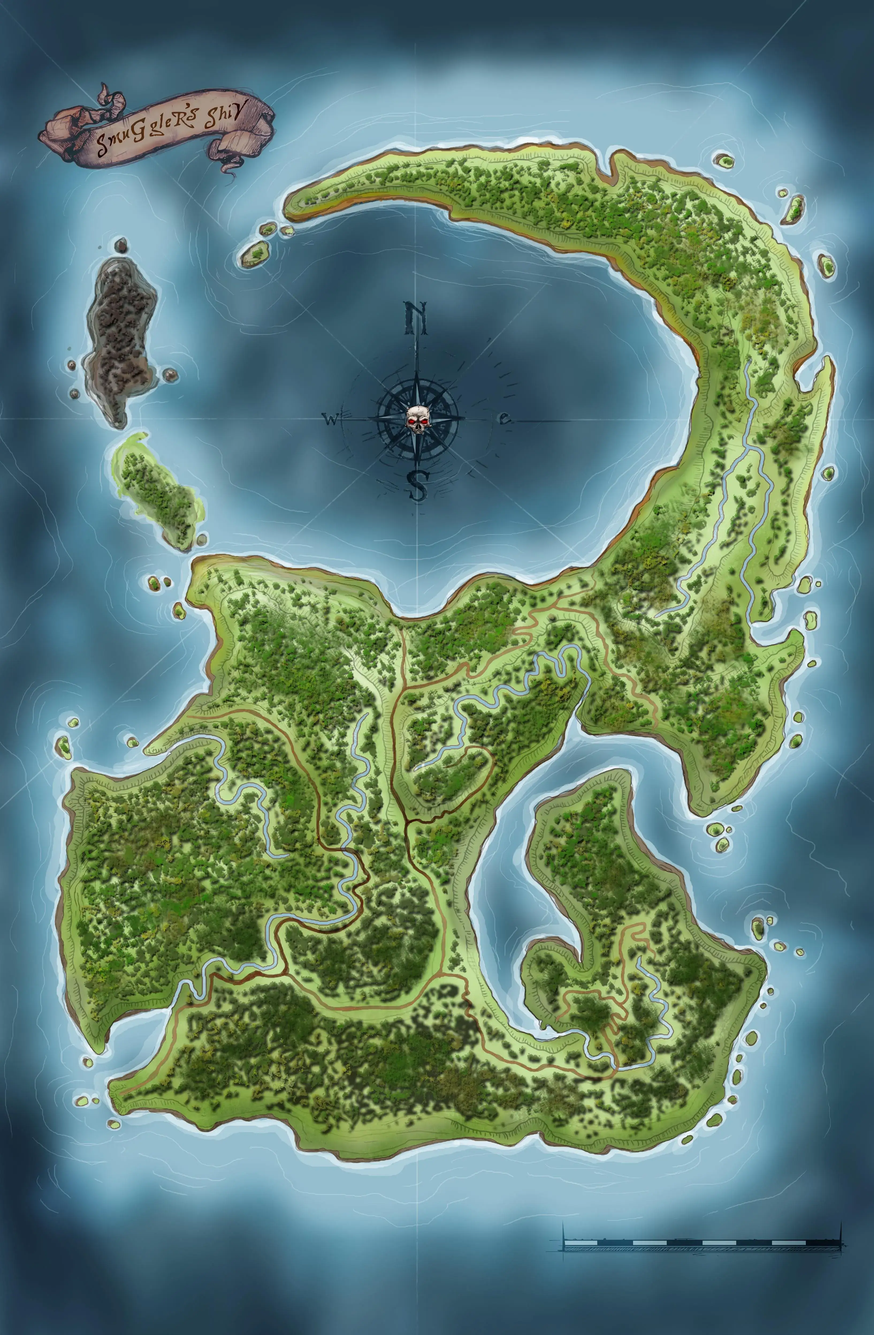
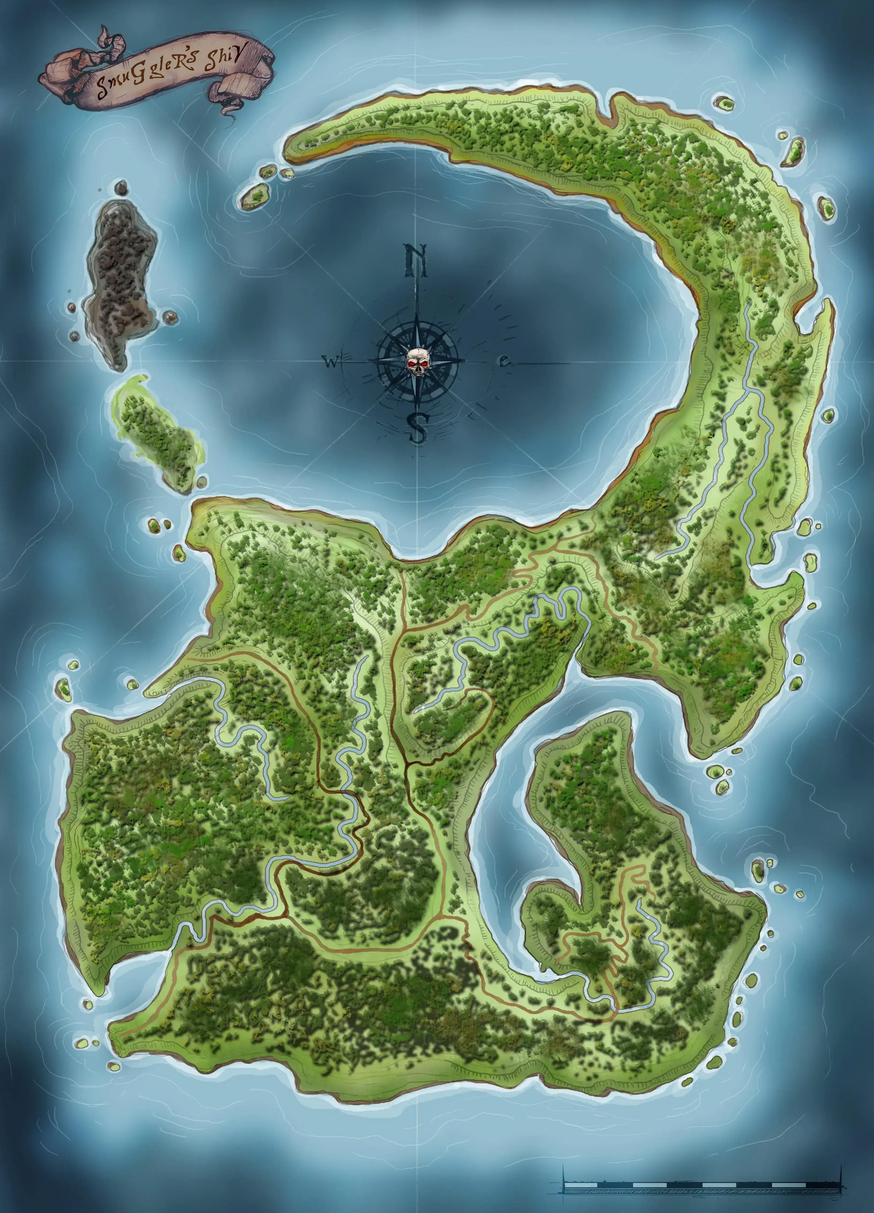
rework light-zoom to include crosshair, modernized js, add req maps

diff --git a/serpents/scripts/lightzoom.js b/serpents/scripts/lightzoom.js
@@ -1,68 +1,96 @@
 /*
- Author: Jafar Akhondali
- Release year: 2016
- Title:	Light-Zoom JQuery plugin that use pure css to zoom on images, this enables you to zoom without loading bigger image and zoom even on gif images !
+ Author: Original - Jafar Akhondali; Edited By - Harrison Merrill
+ Release year: 2016; Modernized 2025
+ Title:	Light-Zoom JQuery plugin that use pure css to zoom on images, this enables
+ you to zoom without loading bigger image and zoom even on gif images!
  https://github.com/JafarAkhondali/lightzoom
  */
-$.fn.lightzoom = function(options) {
+(function ($) {
+	const debounce = (func, delay) => {
+		let timeout;
+		return (...args) => {
+			clearTimeout(timeout);
+			timeout = setTimeout(() => func(...args), delay);
+		};
+	};
 
-    var settings = $.extend({
-        zoomPower   : 3,
-        glassSize   : 175,
-    }, options);
+	$.fn.lightzoom = function (options) {
+		console.log('Initializing lightzoom'); // Added for debugging
 
-    var halfSize= settings.glassSize /2;
-    var quarterSize = settings.glassSize/4;
+		const settings = $.extend({
+			zoomPower: 3,
+			glassSize: 175,
+		}, options);
 
-    var zoomPower = settings.zoomPower;
+		const halfSize = settings.glassSize / 2;
+		const quarterSize = settings.glassSize / 4;
+		const zoomPower = settings.zoomPower;
 
-    $("body").append('<div id="glass"></div>');
-    $('html > head').append($('<style> #glass{width: '+settings.glassSize+'px; height: '+settings.glassSize+'px;}</style>'));
+		$('body').append('<div id="glass"><div id="crosshair"></div></div>');
 
+		let faker;
+		const obj = this;
 
-    var faker;
-    var obj=this;
+		const glass = document.getElementById('glass');
+		let animationFrameId;
 
-    $("#glass").mousemove(function(event) {
-        var obj=this.targ;
-        event.target=obj;
-        faker(event,obj);
-    });
+		const debouncedFaker = debounce((event, obj) => faker(event, obj), 10);
 
-    this.mousemove(function(event) {
-        faker(event,this);
-    });
-    faker=function(event,obj) {
-        //console.log(obj);
-        document.getElementById('glass').targ=obj;
-        var mx = event.pageX;
-        var my = event.pageY;
-        var bounding = obj.getBoundingClientRect();
-        var w = bounding.width;
-        var h = bounding.height;
-        var objOffset  = $(obj).offset();         
-        var ol = objOffset.left;
-        var ot = objOffset.top;
-        if(mx > ol &&  mx < ol + w  && ot < my  &&  ot+h > my ) {
-            offsetXfixer = ((mx-ol - w/2)/(w/2))*quarterSize;
-            offsetYfixer = ((my-ot - h/2)/(h/2))*quarterSize;
-            var cx = (((mx - ol + offsetXfixer ) / w)) * 100;
-            var cy = (((my - ot + offsetYfixer ) / h)) * 100;
-            my -= halfSize;
-            mx -= halfSize;
-            $("#glass").css({
-                "top": (my),
-                "left": (mx),
-                "background-image" : " url('" + obj.src + "')",
-                "background-size" : (w * zoomPower) + "px " + (h * zoomPower) + "px",
-                "background-position": cx + "% " + cy + "%",
-                "display" : "inline-block"
-            });
-            $("body").css("cursor","none");
-        }else {
-            $("#glass").css("display", "none");
-            $("body").css("cursor","default");
-        }
-    };
-    return this;
-};
+		glass.addEventListener('mousemove', event => {
+			console.log('Mouse moved over glass element', event); // Added for debugging
+			const targetObj = glass.targ;
+			event.target = targetObj;
+			debouncedFaker(event, targetObj);
+		});
+
+		obj.on('mousemove', event => {
+			console.log('Mouse moved over img element', event); // Added for debugging
+			debouncedFaker(event, obj[0]);
+		});
+
+		faker = (event, obj) => {
+			console.log('Faker function called', event, obj); // Added for debugging
+			glass.targ = obj;
+			const mx = event.pageX;
+			const my = event.pageY;
+			const bounding = obj.getBoundingClientRect();
+			const w = bounding.width;
+			const h = bounding.height;
+			const { left: ol, top: ot } = $(obj).offset();
+
+			let src = obj.src;
+			if (obj.parentElement.tagName.toLowerCase() === 'picture') {
+				const sourceElement = obj.parentElement.querySelector('source');
+				if (sourceElement && sourceElement.hasAttribute('srcset')) {
+					src = sourceElement.getAttribute('srcset');
+				}
+			}
+
+			if (mx > ol && mx < ol + w && ot < my && ot + h > my) {
+				const offsetXfixer = ((mx - ol - w / 2) / (w / 2)) * quarterSize;
+				const offsetYfixer = ((my - ot - h / 2) / (h / 2)) * quarterSize;
+				const cx = (((mx - ol + offsetXfixer) / w)) * 100;
+				const cy = (((my - ot + offsetYfixer) / h)) * 100;
+				const newMy = my - halfSize;
+				const newMx = mx - halfSize;
+
+				// Use requestAnimationFrame for smoother updates
+				cancelAnimationFrame(animationFrameId);
+				animationFrameId = requestAnimationFrame(() => {
+					glass.style.top = `${newMy}px`;
+					glass.style.left = `${newMx}px`;
+					glass.style.backgroundImage = `url('${src}')`;
+					glass.style.backgroundSize = `${w * zoomPower}px ${h * zoomPower}px`;
+					glass.style.backgroundPosition = `${cx}% ${cy}%`;
+					glass.style.display = 'inline-block';
+					document.body.style.cursor = 'none';
+				});
+			} else {
+				glass.style.display = 'none';
+				document.body.style.cursor = 'default';
+			}
+		};
+
+		return this;
+	};
+})(jQuery);

diff --git a/serpents/map.html b/serpents/map.html
@@ -90,8 +90,8 @@
 				<picture>
 					<!-- <source srcset="/serpents/images/map-smugglers-shiv.webp" type="image/webp"> -->
 					<!-- <source srcset="/serpents/images/map-sargava.webp" type="image/webp"> -->
-					<source srcset="/serpents/images/map-mwangi-unmarked.webp" type="image/webp">
-					<img class="crosshair" src="/serpents/images/unknown.png" alt="Area Map with Current Location">
+					<source srcset="/serpents/images/map-mwangi-redacted.webp" type="image/webp">
+					<img class="light-zoom" src="/serpents/images/unknown.png" alt="Area Map with Current Location">
 				</picture>
 				<figcaption><strong>Map of Colonial Sargava</strong></figcaption>
 			</figure>
@@ -106,7 +106,7 @@
 			<!-- Edit: Add trail to map? -->
 			<figure>
 				<picture>
-					<source srcset="/serpents/images/map-mwangi-unmarked.webp" type="image/webp">
+					<source srcset="/serpents/images/map-mwangi-redacted.webp" type="image/webp">
 					<img src="/serpents/images/unknown.png" alt="Map Data">
 				</picture>
 				<!-- <img src="/serpents/images/map-mwangi-unmarked.jpg" alt="Mwangi Expanse"> -->
@@ -114,7 +114,7 @@
 			</figure>
 			<figure>
 				<picture>
-					<source srcset="/serpents/images/map-smugglers-shiv.webp" type="image/webp">
+					<source srcset="/serpents/images/map-smugglers-shiv-big.webp" type="image/webp">
 					<img src="/serpents/images/unknown.png" alt="Map Data">
 				</picture>
 				<figcaption>Map of Smuggler's Shiv</figcaption>
@@ -133,7 +133,13 @@
 				</picture>
 				<figcaption>Map of Eleder</figcaption>
 			</figure>
-			<!-- Edit: add maps of Kalabuto and Expedition -->
+			<!-- <figure>
+				<picture>
+					<source srcset="/serpents/images/map-kalabuto.webp" type="image/webp">
+					<img src="/serpents/images/unknown.png" alt="Map Data">
+				</picture>
+				<figcaption>Map of Kalabuto</figcaption>
+			</figure> -->
 		</div>
 		<div class="clearfix"></div>
 		<div class="floatswitch" onclick="viewHandler(event)">
@@ -164,7 +170,7 @@
 			<section class="clearfix">
 				<h2>Destination: Ruins of Tazion</h2>
 				<picture>
-					<source srcset="/serpents/images/map-ruins-tazion.webp" type="image/webp">
+					<source srcset="/serpents/images/hero-tazion.webp" type="image/webp">
 					<img class="pointer" src="/serpents/images/unknown.png" alt="Ruins of Tazion" loading="lazy">
 				</picture>
 				<p> The ruins of Tazion stand as a remnant of a forgotten age, an outpost of ancient Azlant lost in the southern
@@ -380,14 +386,20 @@
 
 	<!-- SCRIPT HERE -->
 	<script>$(window).on("load", clickLoad('section'))</script>
-	<!-- <script>
+	<script>
 		$(window).on("load", function () {
 			$('img.light-zoom').lightzoom({
-				zoomPower: 3,    //Default
-				glassSize: 270,  //Default
+				zoomPower: 3,    //Default = 3
+				glassSize: 270,  //Default = 270
 			});
+
+			console.log('Lightzoom initialized'); // Added for debugging
 		});
-	</script> -->
+
+		$(document).ready(function () {
+			console.log('Document is ready'); // Added for debugging
+		});
+	</script>
 
 </body>
 

diff --git a/serpents/css/styles.css b/serpents/css/styles.css
@@ -418,15 +418,30 @@ img {
 		display: block;
 	}
 
-	/*----- #GLASS -----*/
+	/*----- Light-zoom classes -----*/
 	#glass {
 		position: absolute;
 		border-radius: 50%;
-		box-shadow: 0 0 0 7px rgba(255, 255, 255, 0.85),
+		box-shadow: 0 0 0 7px rgba(118, 118, 117, 0.35),
 			0 0 7px 7px rgba(0, 0, 0, 0.25), inset 0 0 40px 2px rgba(0, 0, 0, 0.25);
 		display: none;
 		background-repeat: no-repeat;
 		background-color: rgba(0, 0, 0, 0.6);
+		overflow: hidden;
+		width: 270px; /* Ensure the width and height are set */
+		height: 270px; /* Ensure the width and height are set */
+	}
+
+	#crosshair {
+		position: absolute;
+		width: 100%;
+		height: 100%;
+		background: url("/serpents/images/logo-target.png") center center no-repeat;
+		background-repeat: no-repeat;
+		background-position: center;
+		opacity: 0.5;
+		pointer-events: none;
+		z-index: 10; /* Ensure the crosshair stays on top */
 	}
 
 	/*----- #returnTopBtn -----*/

diff --git a/serpents/index.html b/serpents/index.html
@@ -529,7 +529,7 @@
 			<section class="clearfix">
 				<h3>Destination: Ruins of Tazion</h3>
 				<picture>
-					<source srcset="/serpents/images/map-ruins-tazion.webp" type="image/webp">
+					<source srcset="/serpents/images/hero-tazion.webp" type="image/webp">
 					<img class="pointer" src="/serpents/images/unknown.png" alt="Ruins of Tazion" loading="lazy">
 				</picture>
 				<p> The ruins of Tazion stand as a remnant of a forgotten age, an outpost of ancient Azlant lost in the southern
